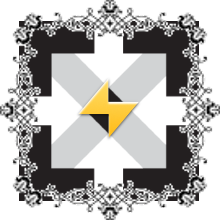
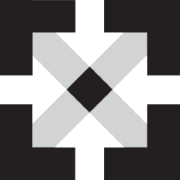
supercastles are dead, long live player numbers

diff --git a/private/game.js b/private/game.js
@@ -336,13 +336,13 @@ var Game = {
               this.turnState = "playing";
               //this.draw();
               return true;
+            } else {
+              alert(
+                "I'm afraid that card can't be used for this outpost. Either pick a card that can or cancel the outpost by clicking it again."
+              );
+            }
           } else {
             alert(
-              "I'm afraid that card can't be used for this outpost. Either pick a card that can or cancel the outpost by clicking it again."
-            );
-          }
-          } else {
-            alert (
               "It should be clear that you would require an outpost card to make an outpost."
             );
           }
@@ -429,35 +429,30 @@ var Game = {
   determineWinner: function() {
     var highest = -1;
     var topPlayer;
-    var tieList = [];
+    // var tieList = [];
     for (var i = 0; i < this.players.length; i++) {
       if (this.players[i].score > highest) {
         highest = this.players[i].score;
         topPlayer = this.players[i];
-        var tieList = [];
-      } else if (this.players[i].score == highest && !topPlayer.hasSuperBriefcase) {
-        // if (this.players[i].briefcaseCount > topPlayer.briefcaseCount) {
-         if (this.players[i].hasSuperBriefcase) {
-          topPlayer = this.players[i];
-          var tieList = [];
+        console.log("player number: " + this.players[i].number)
+        // var tieList = [];
+      } else if (this.players[i].score == highest && topPlayer.number < this.players[i].number) {
+        topPlayer = this.players[i];
         // } else if (this.players[i].briefcaseCount == topPlayer.briefcaseCount) {
-         } else {
-          tieList.push(this.players[i]);
-        }
       }
     }
 
     var message;
-    if (tieList.length > 0) {
-      message = "The game was a tie: " + topPlayer.name;
-      for (var i = 0; i < tieList.length; i++) {
-        message += ", " + tieList[i].name;
-      }
-      message += " all";
-    } else {
+    // if (tieList.length > 0) {
+      // message = "The game was a tie: " + topPlayer.name;
+      // for (var i = 0; i < tieList.length; i++) {
+        // message += ", " + tieList[i].name;
+      // }
+      // message += " all";
+    // } else {
       message = topPlayer.name + " has won. They";
-    }
-    message += " got " + highest + " points.";
+    // }
+    message += " got " + highest + " points. Ties are broken by turn order (furthest from start player).";
 
     return message;
 
@@ -490,9 +485,9 @@ var Game = {
 
                 }
               } else {
-                  if (hex.hasSuperBriefcase) {
-                    this.players[this.currentPlayer].hasSuperBriefcase = true;
-                  }
+                if (hex.hasSuperBriefcase) {
+                  this.players[this.currentPlayer].hasSuperBriefcase = true;
+                }
                 hex.owner = this.players[this.currentPlayer];
                 newPoints += this.rules.markBonus;
                 newPoints += hex.briefcaseValue + briefcaseBonus - (briefcases == 1 ? this.rules.firstBriefcasePenalty : 0);

diff --git a/public/javascripts/uigame.js b/public/javascripts/uigame.js
@@ -48,15 +48,26 @@ var Game = {
       ctx.fillText("Scores", scoreX, scoreY);
       scoreY += 5;
       ctx.font = '8pt Arial';
+      // playersInOrder = this.players;
+      // playersInOrder.sort(compare);
+
+      // function compare(a, b) {
+      //   if (a.score < b.score)
+      //     return 1;
+      //   if (a.score > b.score)
+      //     return -1;
+      //   return 0;
+      // }
+
       for (var i = 0; i < this.players.length; i++) {
         scoreY += 15;
-//        ctx.beginPath();
- //       ctx.arc(scoreX, scoreY, 5, 0, 2 * Math.PI, false);
+        //        ctx.beginPath();
+        //       ctx.arc(scoreX, scoreY, 5, 0, 2 * Math.PI, false);
         ctx.fillStyle = this.players[i].colour;
         // ctx.fill();
         // ctx.stroke();
 
-        ctx.fillText(this.players[i].name + ": " + this.players[i].score, scoreX, scoreY);
+        ctx.fillText(this.players[i].number + ". " + this.players[i].name + ": " + this.players[i].score, scoreX, scoreY);
       }
 
       ctx.fillStyle = "#000";

diff --git a/public/javascripts/uihex.js b/public/javascripts/uihex.js
@@ -45,13 +45,13 @@ var Hex = {
     var overlayImg = null;
     var overlaySize = 1;
     if (this.hasBriefcase) {
-      if (this.hasSuperBriefcase) {
-        overlayImg = ctx.imageCache["fancycastle"];
-        overlaySize = 0.7875;
-      } else {
+      // if (this.hasSuperBriefcase) {
+        // overlayImg = ctx.imageCache["fancycastle"];
+        // overlaySize = 0.7875;
+      // } else {
         overlayImg = ctx.imageCache["briefcase" + this.briefcaseValue];
         overlaySize = 0.5625;
-      }
+      // }
     }
     if (overlayImg) {
       var iconWidth = game.board.hexSize * overlaySize;

diff --git a/private/player.js b/private/player.js
@@ -4,7 +4,7 @@ module.exports = {
   playerColours: {
     1: '#E80000',
     2: '#0000FF',
-    3: '#CCFF33',
+    3: '#FF80FF',
     4: '#006600',
     5: '#663300'
   },
@@ -93,7 +93,8 @@ module.exports = {
       briefcaseCount: this.briefcaseCount,
       outposts: this.outposts,
       hand: Deck.getCardsForClient.call(this.hand, true),
-      stack: Deck.getCardsForClient.call(this.stack, true)
+      stack: Deck.getCardsForClient.call(this.stack, true),
+      number: this.number
     };
   }
 
